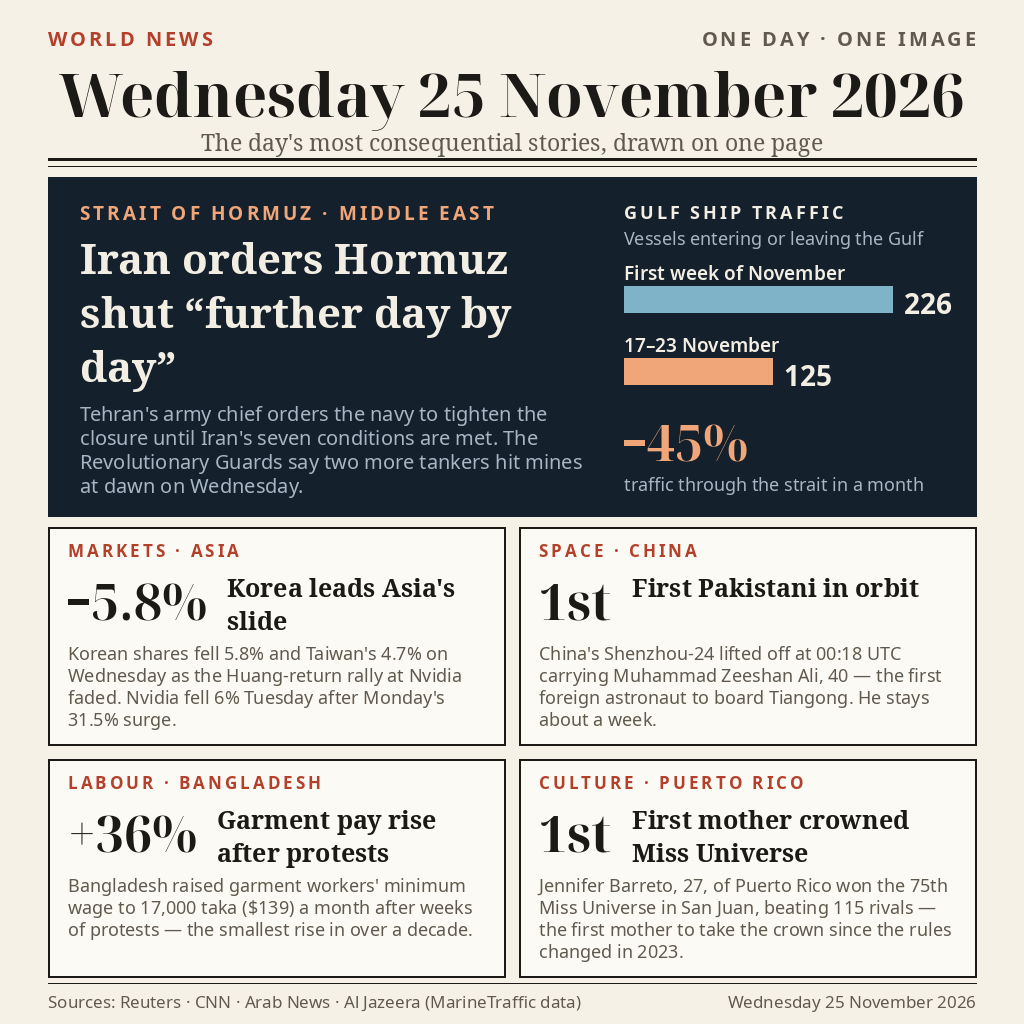
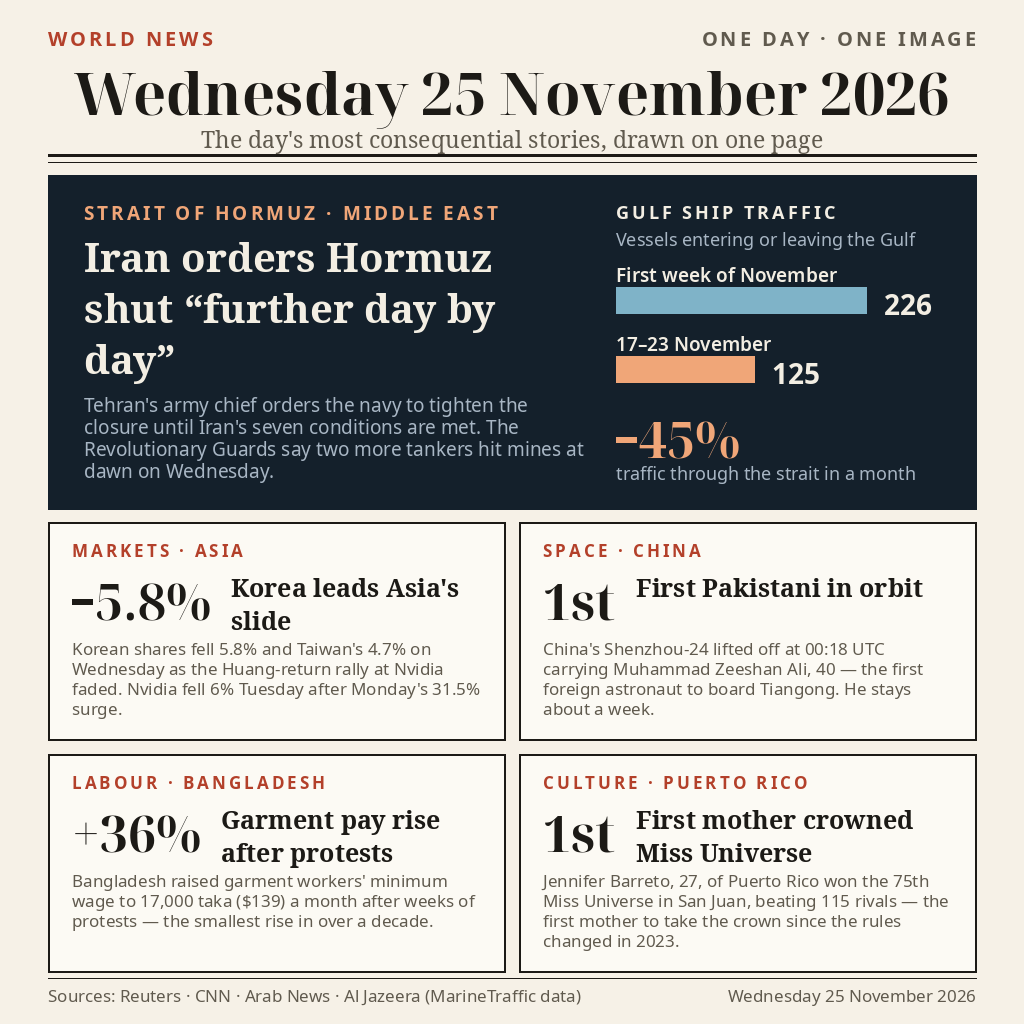
More text-to-frame breathing room

Changed region(s): [[0.0312, 0.0625, 0.9688, 1.0], [0.8438, 0.2812, 0.9375, 0.3125]]

diff --git a/generate_image.py b/generate_image.py
@@ -122,81 +122,81 @@ def paint_masthead(draw) -> int:
     letterspaced(draw, MARGIN, y, left, kick, BRICK)
     rw = letterspaced_w(draw, right, kick)
     letterspaced(draw, W - MARGIN - rw, y, right, kick, FAINT_INK)
-    y += 28
+    y += 29
 
-    date_font = font(SERIF_DISPLAY_BOLD, 60)
+    date_font = font(SERIF_DISPLAY_BOLD, 58)
     date = "Wednesday 25 November 2026"
     dw = text_w(draw, date, date_font)
     draw.text(((W - dw) / 2, y), date, font=date_font, fill=INK)
-    y += 74
+    y += 70
 
     sub = font(SERIF_REG, 23)
     line = "The day's most consequential stories, drawn on one page"
     lw = text_w(draw, line, sub)
     draw.text(((W - lw) / 2, y), line, font=sub, fill=FAINT_INK)
-    y += 33
+    y += 32
 
     # double rule, newspaper style
     draw.line([(MARGIN, y), (W - MARGIN, y)], fill=INK, width=3)
     draw.line([(MARGIN, y + 7), (W - MARGIN, y + 7)], fill=INK, width=1)
-    return y + 18
+    return y + 20
 
 
 # ---------------------------------------------------------------- hero
 def paint_hero(draw, top: int) -> int:
-    height = 339
+    height = 334
     draw.rectangle([MARGIN, top, W - MARGIN, top + height], fill=HERO_BG)
-    pad = 32
+    pad = 36
     x0 = MARGIN + pad
-    chart_x = 624
+    chart_x = 616
     text_w_max = chart_x - x0 - 28
 
-    y = top + 22
+    y = top + 24
     letterspaced(draw, x0, y, "STRAIT OF HORMUZ · MIDDLE EAST",
                  font(SANS_BOLD, 19), BAR_LO)
     y += 30
 
-    headline = font(SERIF_BOLD, 42)
+    headline = font(SERIF_BOLD, 40)
     y = draw_block(draw, x0, y,
                    "Iran orders Hormuz shut \u201cfurther day by day\u201d",
-                   headline, HERO_TEXT, text_w_max, 54)
-    y += 8
+                   headline, HERO_TEXT, text_w_max, 51)
+    y += 9
 
-    stand = font(SANS_REG, 20)
+    stand = font(SANS_REG, 19)
     y = draw_block(
         draw, x0, y,
         "Tehran's army chief orders the navy to tighten the closure until "
         "Iran's seven conditions are met. The Revolutionary Guards say two "
         "more tankers hit mines at dawn on Wednesday.",
-        stand, HERO_FAINT, text_w_max, 24)
+        stand, HERO_FAINT, text_w_max, 22)
 
     # --- ship-traffic chart, right column
     cx = chart_x
-    cy = top + 22
+    cy = top + 24
     letterspaced(draw, cx, cy, "GULF SHIP TRAFFIC", font(SANS_BOLD, 18), HERO_TEXT)
-    cy += 26
+    cy += 27
     cap = font(SANS_REG, 18)
     cy = draw_block(draw, cx, cy, "Vessels entering or leaving the Gulf",
                     cap, HERO_FAINT, W - MARGIN - pad - cx, 22)
-    cy += 12
+    cy += 13
 
     bars = [("First week of November", 226, BAR_HI),
             ("17\u201323 November", 125, BAR_LO)]
-    bar_max_w = 268
+    bar_max_w = 250
     label_f = font(SANS_SEMI, 19)
     num_f = font(SANS_BOLD, 28)
     for label, value, colour in bars:
         draw.text((cx, cy), label, font=label_f, fill=HERO_TEXT)
-        cy += 27
+        cy += 26
         bw = bar_max_w * value / 226
         draw.rectangle([cx, cy, cx + bw, cy + 26], fill=colour)
-        draw.text((cx + bw + 12, cy - 2), str(value), font=num_f, fill=HERO_TEXT)
-        cy += 45
+        draw.text((cx + bw + 18, cy - 2), str(value), font=num_f, fill=HERO_TEXT)
+        cy += 43
 
-    cy += 4
+    cy += 5
     big = font(SERIF_DISPLAY_BOLD, 50)
     draw_numeral(draw, cx, cy, "-45%", big, BAR_LO, 50)
-    cy += 64
+    cy += 56
     draw_block(draw, cx, cy, "traffic through the strait in a month",
                font(SANS_REG, 18), HERO_FAINT, W - MARGIN - pad - cx, 22)
 
@@ -242,9 +242,9 @@ CARDS = [
 
 def paint_card(draw, x, y, w, h, card):
     draw.rectangle([x, y, x + w, y + h], fill=CARD_BG, outline=INK, width=2)
-    pad = 20
+    pad = 24
     inner_w = w - 2 * pad
-    cy = y + 11
+    cy = y + 16
 
     letterspaced(draw, x + pad, cy, card["kicker"], font(SANS_BOLD, 17), BRICK)
     cy += 28
@@ -255,10 +255,10 @@ def paint_card(draw, x, y, w, h, card):
     head_x = ink_right + 20
     draw_block(draw, head_x, cy + 4, card["headline"],
                font(SERIF_BOLD, 25), INK, x + pad + inner_w - head_x, 33)
-    cy += 74
+    cy += 70
 
     draw_block(draw, x + pad, cy, card["body"],
-               font(SANS_REG, 18), FAINT_INK, inner_w, 22)
+               font(SANS_REG, 17), FAINT_INK, inner_w, 20)
 
 
 def paint_cards(draw, top: int) -> int:
@@ -276,7 +276,7 @@ def paint_cards(draw, top: int) -> int:
 def paint_footer(draw, top: int) -> None:
     y = top + 6
     draw.line([(MARGIN, y), (W - MARGIN, y)], fill=INK, width=1)
-    y += 6
+    y += 5
     note = font(SANS_REG, 17)
     left = "Sources: Reuters · CNN · Arab News · Al Jazeera (MarineTraffic data)"
     draw.text((MARGIN, y), left, font=note, fill=FAINT_INK)
@@ -292,7 +292,7 @@ def main() -> None:
 
     y = paint_masthead(draw)
     y = paint_hero(draw, y)
-    y = paint_cards(draw, y + 11)
+    y = paint_cards(draw, y + 13)
     paint_footer(draw, y)
 
     out = HERE / "entry.png"
